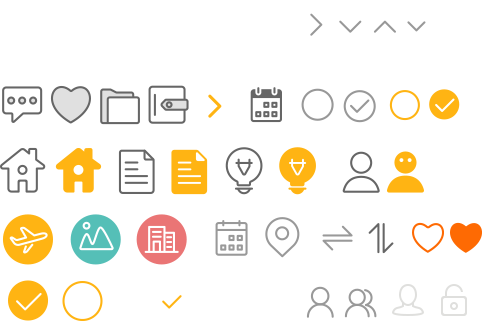
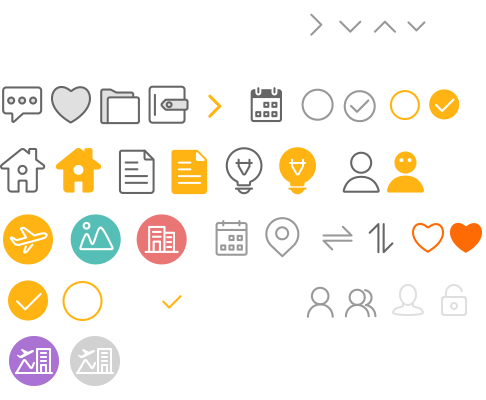
添加机酒景订单列表

diff --git a/assets/css/user.css b/assets/css/user.css
@@ -666,8 +666,8 @@ a{
   height: 25px;
   background-image: url(../images/ui/icons.png);
   background-repeat: no-repeat;
-  background-size: 375px 360px;
-  background-position: 18.5% 75.5%;
+  background-size: 217px 194px;
+  background-position: 1.5% 95.8%;
 }
 
 .user-hotel1 {
